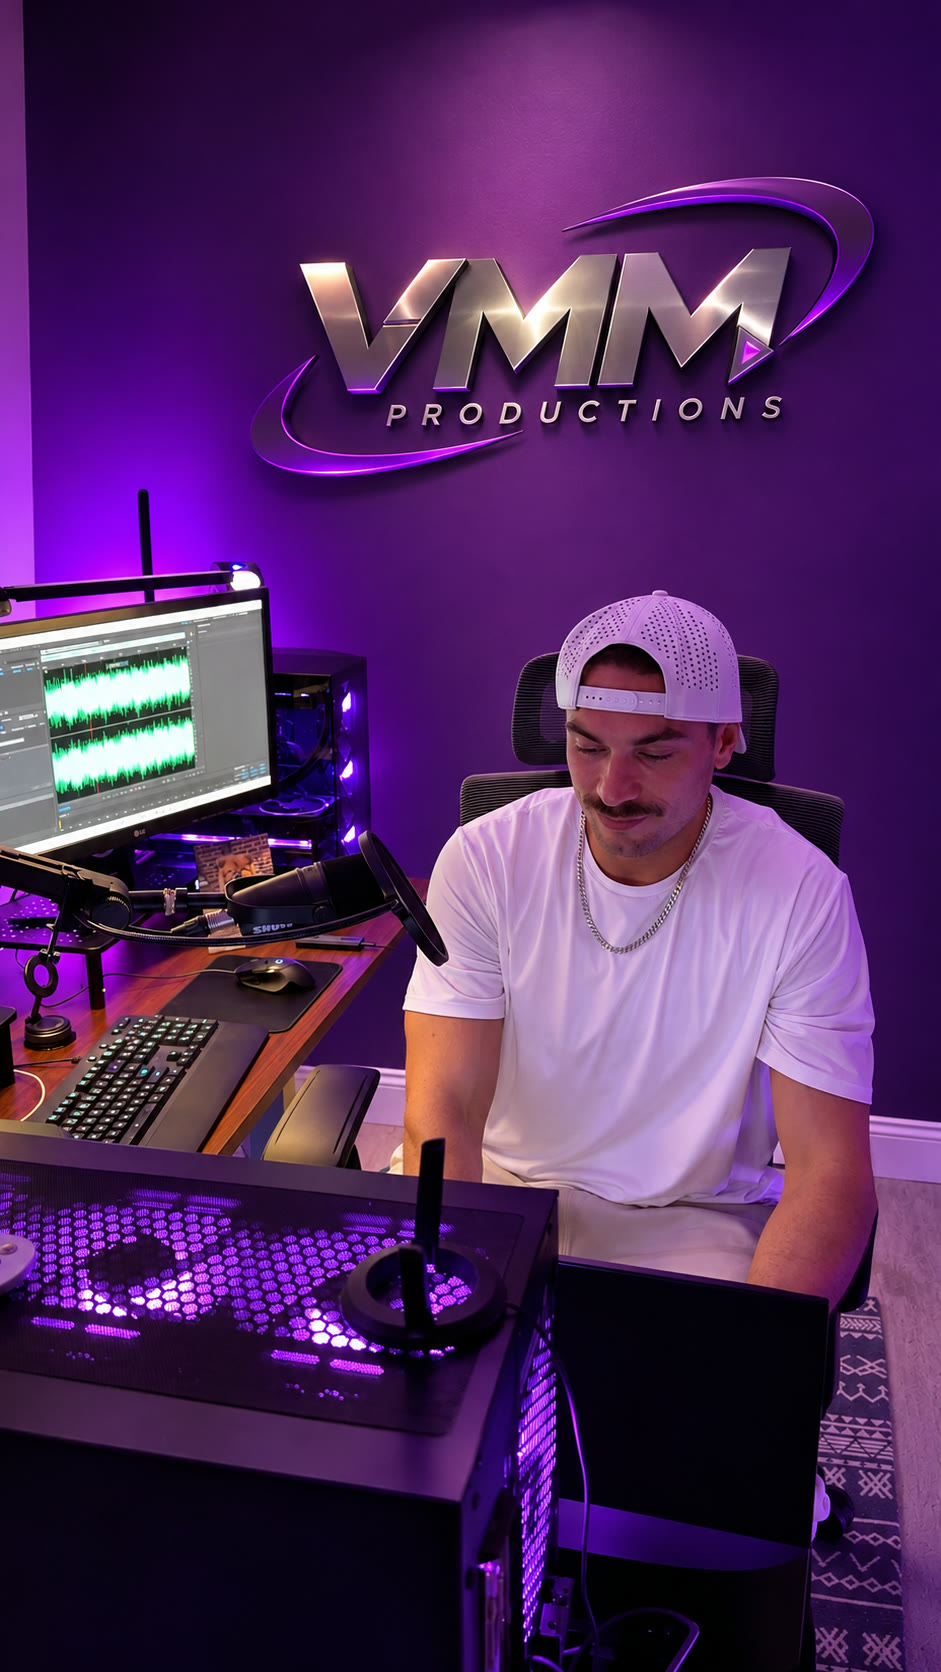
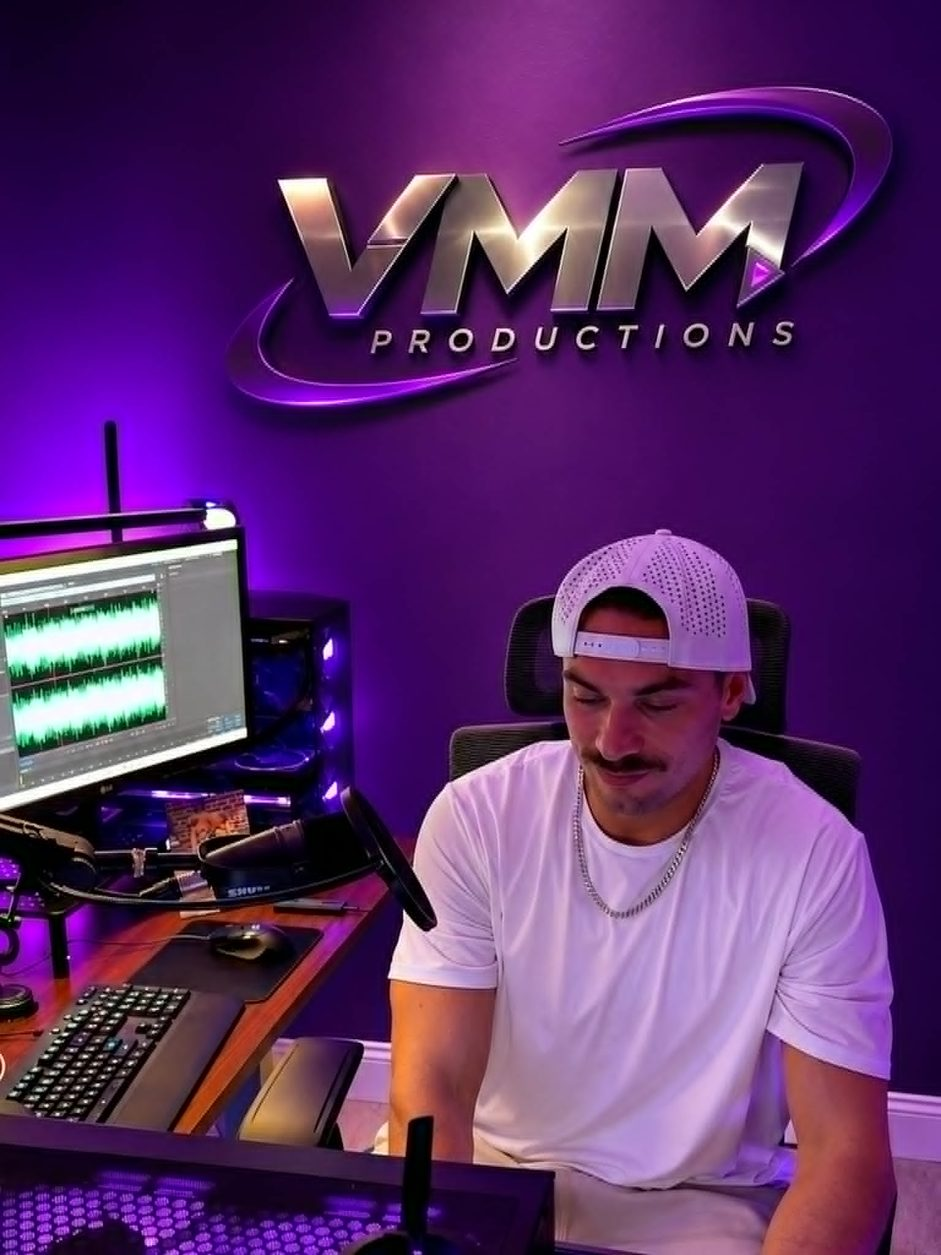
PR L — Contact : nouvelle photo de JD (section FAQ) (#42)
* PR L — Contact : nouvelle photo de JD dans la section FAQ

Dérivés faq-jd (941, 720, 470 px, WebP + JPG) refaits depuis la photo
de JD au studio (3:4). Ordinateur : largeur de la photo au ratio 3:4
pour garder le logo VMM et JD entiers. Mobile : object-position 65 %
bottom. Tests jd-1117-a/d mis aux dimensions et repères de la nouvelle
photo ; nouveau test pr-l.

Claude-Session: https://claude.ai/code/session_017C8rnJBRJdkWhiPX4m6QqX

* TEMP : régénération des snapshots Contact (à retirer)

Claude-Session: https://claude.ai/code/session_017C8rnJBRJdkWhiPX4m6QqX

* PR L — dérivés faq-jd refaits depuis la version plus nette de la photo

Claude-Session: https://claude.ai/code/session_017C8rnJBRJdkWhiPX4m6QqX

* Snapshots Contact régénérés (PR L, TEMP)

* Retrait de l'étape TEMP : tests.yml identique à main

Claude-Session: https://claude.ai/code/session_017C8rnJBRJdkWhiPX4m6QqX

---------

diff --git a/tests/jd-1117-d.spec.ts b/tests/jd-1117-d.spec.ts
@@ -112,16 +112,16 @@ test.describe('PR D — Photo FAQ Contact selon maquettes 16:9 et 9:16 (FR + EN)
       const titreBox = (await titre.boundingBox())!;
       const lastDetailsBox = (await accordeons.last().boundingBox())!;
 
-      // Calcul des coordonnées rendues de l'image (source 941x1672 avec object-fit: cover, object-position: center bottom)
-      // Proportions relatives dans l'image source (largeur 941, hauteur 1672px) :
-      // - Casquette haut = 800px (47.85%)
-      // - Visage haut = 880px (52.63%), bas = 1140px (68.18%)
-      // - Pupitre bas = 1500px (89.71%)
-      const scale = Math.max(secBox.width / 941, secBox.height / 1672);
-      const capTop = secBox.y + secBox.height - (1672 - 800) * scale;
-      const faceTop = secBox.y + secBox.height - (1672 - 880) * scale;
-      const faceBottom = secBox.y + secBox.height - (1672 - 1140) * scale;
-      const deskBottom = secBox.y + secBox.height - (1672 - 1500) * scale;
+      // Calcul des coordonnées rendues de l'image (source 941x1255 avec object-fit: cover, object-position: 65% bottom)
+      // Repères dans la photo PR L (JD au studio devant le logo VMM, largeur 941, hauteur 1255 px) :
+      // - Casquette haut = 530px (42.2%)
+      // - Visage haut (sous la visière) = 668px (53.2%), bas (menton) = 800px (63.7%)
+      // - Bureau (bas du clavier) = 1180px (94.0%)
+      const scale = Math.max(secBox.width / 941, secBox.height / 1255);
+      const capTop = secBox.y + secBox.height - (1255 - 530) * scale;
+      const faceTop = secBox.y + secBox.height - (1255 - 668) * scale;
+      const faceBottom = secBox.y + secBox.height - (1255 - 800) * scale;
+      const deskBottom = secBox.y + secBox.height - (1255 - 1180) * scale;
 
       // 1. Hauteur de la section FAQ fermée = exactement un écran utile (<= viewport.height)
       expect(secBox.height, `La section FAQ fermée (${secBox.height}px) doit tenir dans l'écran mobile (${viewport.height}px)`).toBeLessThanOrEqual(viewport.height);
@@ -200,8 +200,8 @@ test.describe('PR D — Photo FAQ Contact selon maquettes 16:9 et 9:16 (FR + EN)
         if (isMobile) {
           // Mobile : l'élément ouvert ne doit jamais descendre sur le visage de JD
           const secBox = (await faqSection.boundingBox())!;
-          const scale = Math.max(secBox.width / 941, secBox.height / 1672);
-          const imgFaceTop = secBox.y + secBox.height - (1672 - 880) * scale;
+          const scale = Math.max(secBox.width / 941, secBox.height / 1255);
+          const imgFaceTop = secBox.y + secBox.height - (1255 - 668) * scale;
           const itemBox = (await item.boundingBox())!;
           expect(itemBox.y + itemBox.height, `L accordéon ouvert (${itemBox.y + itemBox.height}) ne doit pas chevaucher le visage de JD (${imgFaceTop})`).toBeLessThanOrEqual(imgFaceTop);
         } else {

diff --git a/tests/pr-l-photo-faq-contact.spec.ts b/tests/pr-l-photo-faq-contact.spec.ts
@@ -1,0 +1,41 @@
+import { test, expect } from '@playwright/test';
+import { createHash } from 'node:crypto';
+
+/**
+ * PR L — Contact, section « Questions fréquentes » (demande de Max, 21 nov. 2026) :
+ * la photo de JD est remplacée par la nouvelle (JD assis au studio, devant le logo VMM Productions,
+ * original reçu en 1536×2048 portrait, ratio 3:4). Mêmes noms de fichiers faq-jd(-720|-470).(webp|jpg).
+ * Échoue sur main : l'ancienne photo est en 941×1672 (ratio 0,563).
+ */
+const PAGES = [
+  { lang: 'FR', path: '/contact/' },
+  { lang: 'EN', path: '/en/contact/' },
+];
+const PROJETS = ['desktop-1440x900', 'mobile-iphone-390x844'];
+const RATIO = 768 / 1024;
+// Empreintes SHA-256 des 6 dérivés de la nouvelle photo (static/img/faq-jd*)
+const HASHES = new Set<string>([
[6 lines of base64/hex data omitted]
+]);
+
+for (const p of PAGES) {
+  test(`[PR-L #1] ${p.lang} : la section FAQ charge la nouvelle photo de JD`, async ({ page }, testInfo) => {
+    test.skip(!PROJETS.includes(testInfo.project.name), 'Ordinateur 1440×900 et mobile 390×844');
+    await page.goto(p.path, { waitUntil: 'networkidle' });
+    const img = page.locator('.section-faq--photo .faq-photo-wrap img');
+    await img.scrollIntoViewIfNeeded();
+    await expect.poll(() => img.evaluate((el: HTMLImageElement) => el.complete && el.naturalWidth > 0)).toBe(true);
+    const m = await img.evaluate((el: HTMLImageElement) => ({ w: el.naturalWidth, h: el.naturalHeight, src: el.currentSrc }));
+    expect(m.src, 'image servie depuis faq-jd').toMatch(/\/img\/faq-jd(-720|-470)?\.(webp|jpg)$/);
+    expect(Math.abs(m.w / m.h - RATIO), `ratio naturel ${m.w}×${m.h}`).toBeLessThan(0.01);
+    const res = await page.request.get(m.src);
+    expect(res.ok()).toBe(true);
+    const hash = createHash('sha256').update(await res.body()).digest('hex');
+    expect(HASHES.has(hash), `empreinte ${hash} de ${m.src}`).toBe(true);
+  });
+}

diff --git a/tests/jd-1117-a.spec.ts b/tests/jd-1117-a.spec.ts
@@ -402,7 +402,7 @@ test.describe('Ajustements JD du 17 nov. 2026 — PR A : Contact', () => {
     }
   });
 
-  test('[JD-1117 #7] Rendu FAQ réel (build avec drapeau allumé) : <picture> généré par build.mjs, alt, loading=lazy, ratio 941/1672 à ±1% et hauteur d\'écran respectée (FR + EN)', async ({ page }) => {
+  test('[JD-1117 #7] Rendu FAQ réel (build avec drapeau allumé) : <picture> généré par build.mjs, alt, loading=lazy, ratio 941/1255 à ±1% et hauteur d\'écran respectée (FR + EN)', async ({ page }) => {
     const testPages = [
       { url: '/contact/', lang: 'fr' as const, expectedAlt: 'JD au studio de VMM Productions' },
       { url: '/en/contact/', lang: 'en' as const, expectedAlt: 'JD in the VMM Productions studio' },
@@ -431,18 +431,18 @@ test.describe('Ajustements JD du 17 nov. 2026 — PR A : Contact', () => {
       // Attributs requis
       await expect(img).toHaveAttribute('alt', expectedAlt);
       await expect(img).toHaveAttribute('width', '941');
-      await expect(img).toHaveAttribute('height', '1672');
+      await expect(img).toHaveAttribute('height', '1255');
       await expect(img).toHaveAttribute('loading', 'lazy');
 
-      // Vérification du ratio d'aspect rendu (941/1672 = 0.562799... à ±1 %) sur desktop (>= 900px)
+      // Vérification du ratio d'aspect rendu (941/1255 = 0.7498 à ±1 %, photo PR L) sur desktop (>= 900px)
       const imgBox = await img.boundingBox();
       expect(imgBox).not.toBeNull();
       const viewport = page.viewportSize();
       if (imgBox && viewport && viewport.width >= 900) {
         const renderedRatio = imgBox.width / imgBox.height;
-        const expectedRatio = 941 / 1672;
+        const expectedRatio = 941 / 1255;
         const diffRatio = Math.abs(renderedRatio - expectedRatio) / expectedRatio;
-        expect(diffRatio, `Le ratio rendu (${renderedRatio}) doit être à ±1 % de 941/1672 (${expectedRatio})`).toBeLessThan(0.01);
+        expect(diffRatio, `Le ratio rendu (${renderedRatio}) doit être à ±1 % de 941/1255 (${expectedRatio})`).toBeLessThan(0.01);
       }
 
       // Vérification que la section tient dans un écran (spécifiquement requis pour 1366×768 et 390×844)

diff --git a/src/styles.css b/src/styles.css
@@ -546,7 +546,8 @@ section.page-contact { padding-top: clamp(3rem, 8vw, 6rem); }
   width: 100%;
   height: 100%;
   object-fit: cover;
-  object-position: center bottom;
+  /* PR L : nouvelle photo 3:4, JD est à droite du cadre → cadrage décalé vers lui */
+  object-position: 65% bottom;
 }
 .section-faq--photo .faq-veil {
   position: absolute;
@@ -576,9 +577,10 @@ section.page-contact { padding-top: clamp(3rem, 8vw, 6rem); }
     padding-block: 0;
     overflow: hidden;
   }
-  /* Largeur de la photo de JD : une seule source pour la photo et l'espace vide à sa gauche */
+  /* Largeur de la photo de JD : une seule source pour la photo et l'espace vide à sa gauche.
+     PR L : ratio de la nouvelle photo (941×1255, 3:4) pour que le logo VMM et JD restent entiers */
   .section-faq--photo {
-    --faq-photo-w: min(44vw, calc((100svh - var(--header-h)) * 941 / 1672));
+    --faq-photo-w: min(44vw, calc((100svh - var(--header-h)) * 941 / 1255));
   }
   /* Le bloc FAQ occupe l'espace vide entre le bord gauche et la photo, et s'y centre (Natasha, 21 nov.) */
   .section-faq--photo .faq {
